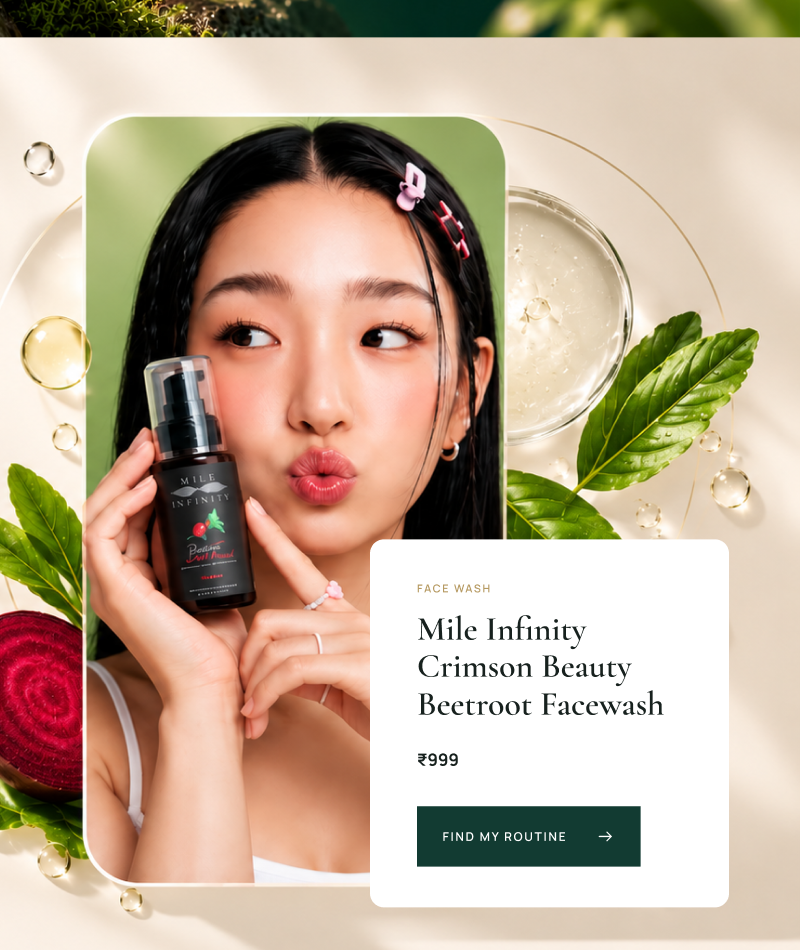
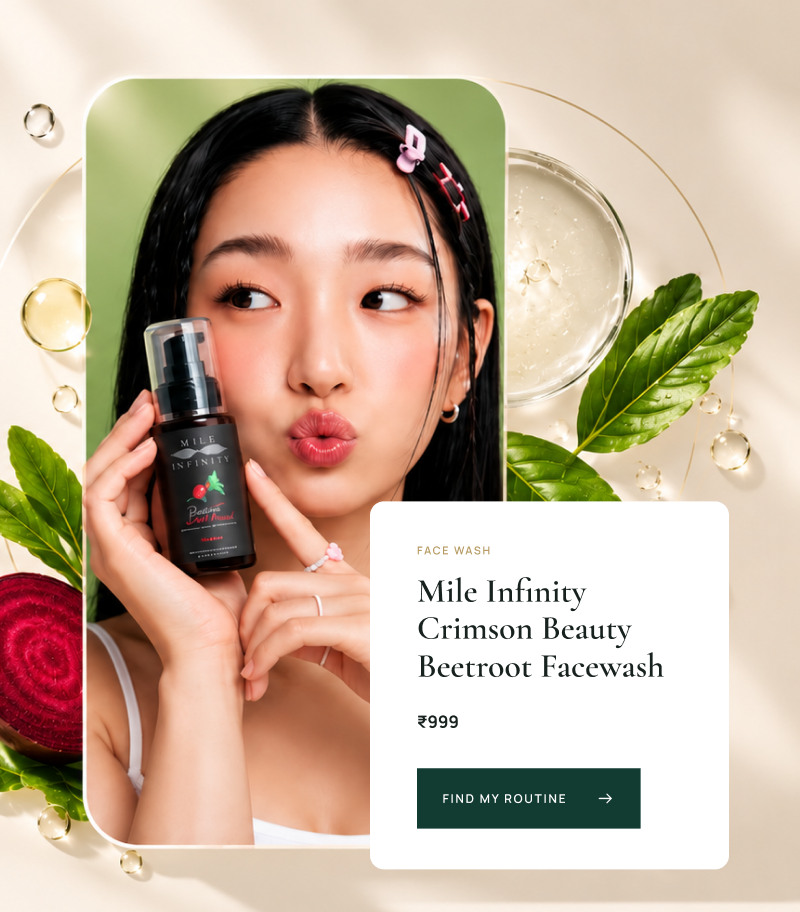
fix: remove green moss top strip from routine finder artwork and remove artificial gradient fade overlays

diff --git a/src/routes/index.tsx b/src/routes/index.tsx
@@ -158,11 +158,6 @@ function Hero() {
             alt="Mile Infinity Botanical Skincare Collection"
             className="h-full w-full object-cover object-[center_60%] sm:object-[75%_center] lg:object-center select-none"
           />
-          {/* Subtle soft fade on mobile into the clean text area below */}
-          <div className="block sm:hidden absolute inset-x-0 bottom-0 h-10 bg-gradient-to-t from-[#faf8f4] to-transparent pointer-events-none" />
-
-          {/* Desktop gradient overlay on left for readable luxury typography */}
-          <div className="hidden sm:block absolute inset-0 bg-gradient-to-r from-[#e8e2d7]/95 via-[#e8e2d7]/60 to-transparent lg:from-[#e8e2d7]/90 lg:via-[#e8e2d7]/50 lg:to-transparent pointer-events-none" />
         </div>
 
         {/* Text Content */}

diff --git a/src/routes/about.tsx b/src/routes/about.tsx
@@ -84,10 +84,6 @@ function AboutHero() {
             alt="Mile Infinity Botanical Skincare Ritual"
             className="w-full h-full object-cover object-[75%_center] lg:object-center select-none"
           />
-          {/* Subtle gradient feather on the left edge for seamless desktop transition */}
-          <div className="hidden lg:block absolute inset-y-0 left-0 w-20 bg-gradient-to-r from-[#eee3d5] to-transparent pointer-events-none" />
-          {/* Mobile bottom fade into text */}
-          <div className="block lg:hidden absolute inset-x-0 bottom-0 h-8 bg-gradient-to-t from-[#faf8f4] to-transparent pointer-events-none" />
         </div>
 
         {/* Story Copy: Sits BELOW photo on mobile view (order-2), left side on desktop (order-1) */}

diff --git a/src/routes/shop.tsx b/src/routes/shop.tsx
@@ -93,8 +93,6 @@ function ShopHeroBanner() {
             alt="Mile Infinity Botanical Skincare Collection"
             className="h-full w-full object-cover object-[70%_center] sm:object-center select-none"
           />
-          {/* Subtle mobile fade into text section below */}
-          <div className="block sm:hidden absolute inset-x-0 bottom-0 h-8 bg-gradient-to-t from-[#faf8f4] to-transparent pointer-events-none" />
         </div>
 
         {/* Text placed below banner on mobile; placed on right on desktop */}
